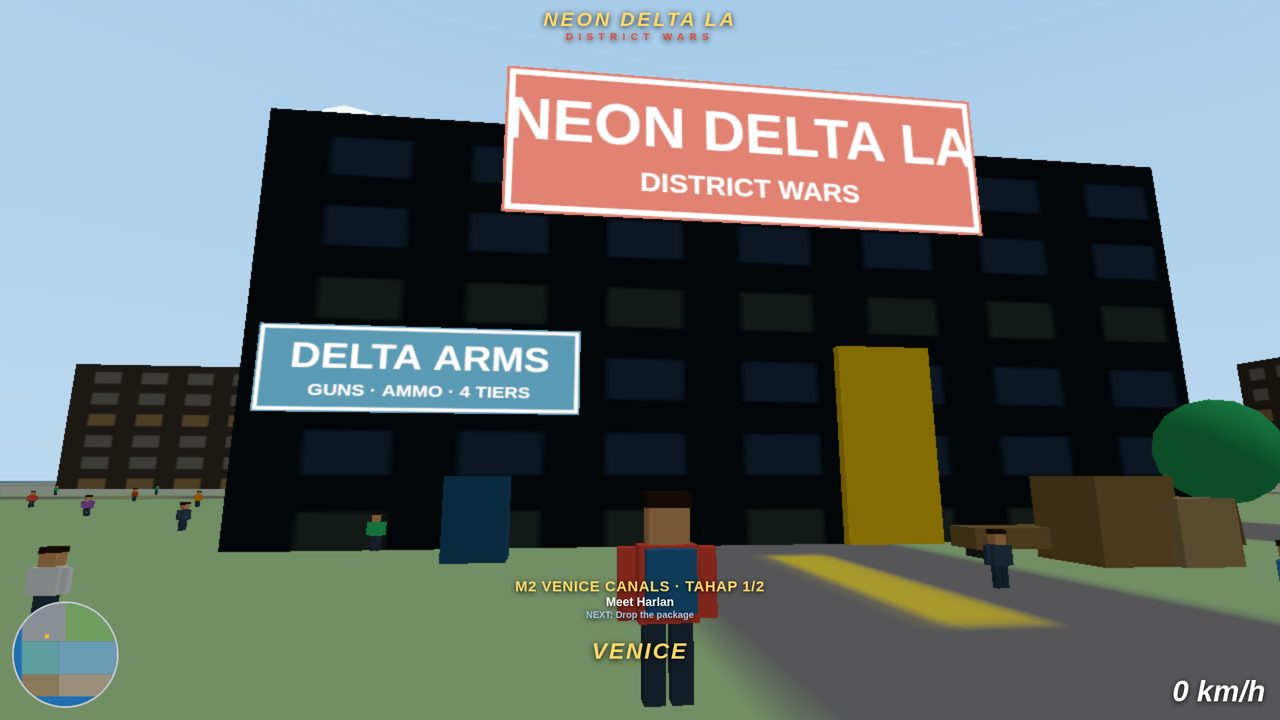
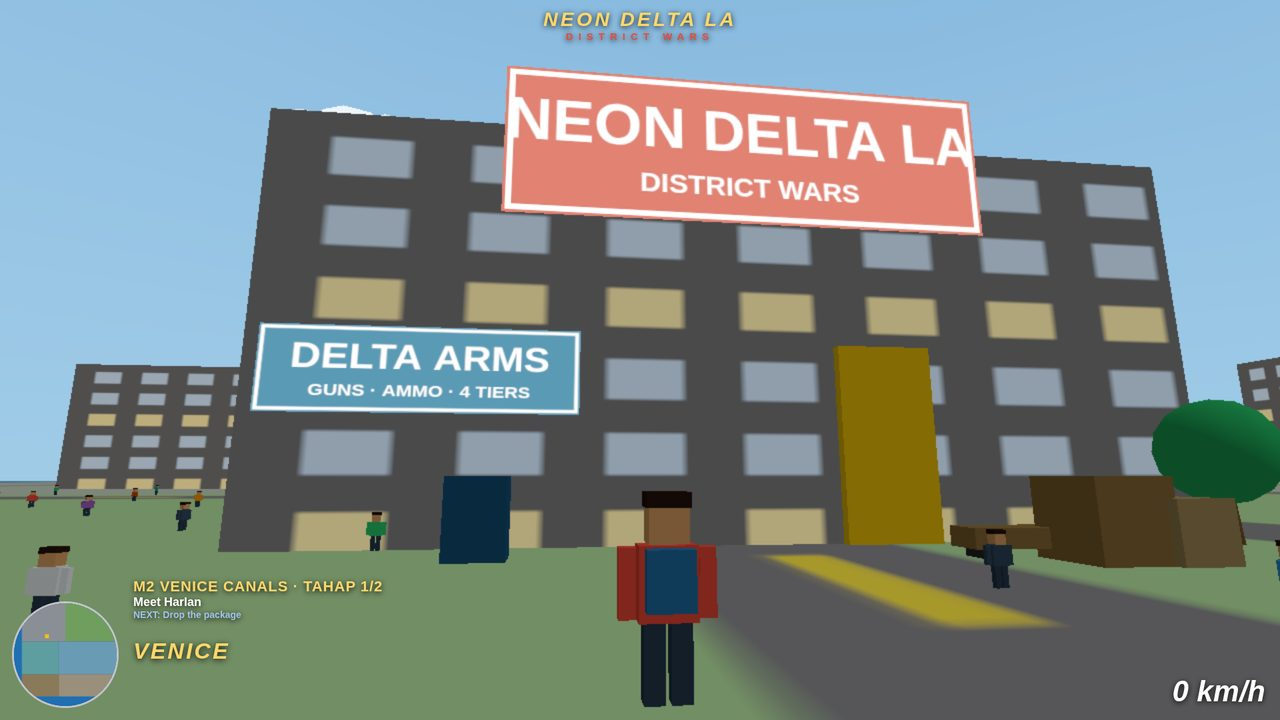
Round 8 v28: 3/4 rear hero car, filled pier foreground, saturated dusk/night grading

diff --git a/game/src/scene.js b/game/src/scene.js
@@ -101,7 +101,7 @@ function groundTexture() {
     const d1 = w2c(PIER_DECK.x1, PIER_DECK.z1);
     ctx.fillStyle = '#8a6d3b';
     ctx.fillRect(d0.x, d0.y, d1.x - d0.x, d1.y - d0.y);
-    ctx.fillStyle = 'rgba(255,220,150,0.32)';
+    ctx.fillStyle = 'rgba(255,220,150,0.4)';
     for (let z = PIER_DECK.z0; z <= PIER_DECK.z1; z += 16) {
       const p = w2c(PIER_DECK.x0, z);
       ctx.fillRect(p.x, p.y, d1.x - d0.x, w2c(0, z + 8).y - p.y);
@@ -427,10 +427,28 @@ function makeTree() {
   return g;
 }
 
+// A pier bench: wooden seat + backrest on iron legs. Same build as the
+// shop bench, as its own helper so the pier foreground can use it.
+function makeBench() {
+  const g = new THREE.Group();
+  const wood = new THREE.MeshLambertMaterial({ color: 0x8a6d3b });
+  const iron = new THREE.MeshLambertMaterial({ color: 0x333333 });
+  const seat = box(8, 0.8, 2, 0, 0, 1, 0, wood);
+  const back = box(8, 1.6, 0.5, 0, 0, 1.8, -0.9, wood);
+  const leg1 = box(0.6, 1, 1.8, 0, -3.4, 0.5, 0, iron);
+  const leg2 = box(0.6, 1, 1.8, 0, 3.4, 0.5, 0, iron);
+  g.add(seat, back, leg1, leg2);
+  return g;
+}
+
 function skyColors(hour) {
-  if (hour >= 6 && hour < 17.5) return { sky: 0x87ceeb, sun: 0xffffff, sunI: 0.9, amb: 0.55, fog: 0x9fc3e8 };
-  if (hour >= 17.5 && hour < 19) return { sky: 0xff9a3c, sun: 0xffd76a, sunI: 0.7, amb: 0.45, fog: 0xe8956a };
-  if (hour >= 19 || hour < 5) return { sky: 0x1a2340, sun: 0x9fb4ff, sunI: 0.35, amb: 0.3, fog: 0x2a3550 };
+  // v28 grading toward v15: the dusk is a saturated orange-red (warmer
+  // sun, richer fog) instead of pale salmon; the day sky and its fog
+  // are a deeper blue; the night is a purple night, slightly lifted so
+  // the pier deck is not pitch black.
+  if (hour >= 6 && hour < 17.5) return { sky: 0x87ceeb, sun: 0xffffff, sunI: 0.9, amb: 0.55, fog: 0x86b8e0 };
+  if (hour >= 17.5 && hour < 19) return { sky: 0xff7a1a, sun: 0xffb84d, sunI: 0.8, amb: 0.5, fog: 0xdd6a45 };
+  if (hour >= 19 || hour < 5) return { sky: 0x1a2340, sun: 0x9fb4ff, sunI: 0.35, amb: 0.35, fog: 0x352a5e };
   return { sky: 0xff6b5e, sun: 0xffd76a, sunI: 0.6, amb: 0.4, fog: 0xd95f4e };
 }
 
@@ -438,22 +456,26 @@ function skyColors(hour) {
 // into a small canvas texture and cached (the sphere's v axis runs
 // pole-to-pole, so the canvas top is the zenith).
 function skyGradColors(hour) {
-  if (hour >= 6 && hour < 17.5) return ['#3d7ac2', '#bfe3f0'];
-  if (hour >= 17.5 && hour < 19) return ['#5a2340', '#ff9a3c'];
-  if (hour >= 19 || hour < 5) return ['#05070f', '#2a3550'];
-  return ['#7a3a5a', '#ff6b5e'];
+  // v28: three stops — a deep zenith, a saturated mid band, a bright
+  // horizon — so the dusk reads as v15's golden-hour orange and the
+  // night as deep purple instead of a flat two-colour wash.
+  if (hour >= 6 && hour < 17.5) return ['#1e5aa8', '#5f9fd0', '#a8d8f0'];
+  if (hour >= 17.5 && hour < 19) return ['#2a1030', '#c23a1e', '#ff8c1a'];
+  if (hour >= 19 || hour < 5) return ['#060312', '#241a4e', '#43307a'];
+  return ['#7a3a5a', '#c24a3a', '#ff6b5e'];
 }
 let skyTexCache = null;
 function updateSkyMat(skyMat, hour) {
   const bucket = hour >= 6 && hour < 17.5 ? 'day' : hour >= 17.5 && hour < 19 ? 'dusk' : hour >= 19 || hour < 5 ? 'night' : 'dawn';
   if (!skyTexCache || skyTexCache.bucket !== bucket) {
-    const [top, bottom] = skyGradColors(hour);
+    const [top, mid, bottom] = skyGradColors(hour);
     const cv = document.createElement('canvas');
     cv.width = 16;
     cv.height = 256;
     const cx = cv.getContext('2d');
     const grad = cx.createLinearGradient(0, 0, 0, 256);
     grad.addColorStop(0, top);
+    grad.addColorStop(0.55, mid);
     grad.addColorStop(1, bottom);
     cx.fillStyle = grad;
     cx.fillRect(0, 0, 16, 256);
@@ -508,19 +530,22 @@ export function createScene(container, world) {
     scene.add(cl);
     clouds.push(cl);
   }
-  // Buildings with lit windows.
+  // Buildings with lit windows: the window texture is also the
+  // emissive map, so the windows glow warm (v15's lit-window grids)
+  // instead of reading as flat dark glass. The dark wall texels emit
+  // almost nothing, so the walls stay walls.
   const winTex = windowTexture();
   const bColors = [0x9b8a7a, 0x7a8a9b, 0x8a7a6b, 0x6b7a8a, 0xa08a7a, 0x7a9b8a];
   for (let i = 0; i < BUILDINGS.length; i += 1) {
     const b = BUILDINGS[i];
-    const mat = new THREE.MeshLambertMaterial({ color: bColors[i % bColors.length], map: winTex });
+    const mat = new THREE.MeshLambertMaterial({ color: bColors[i % bColors.length], map: winTex, emissive: 0xffffff, emissiveMap: winTex, emissiveIntensity: 0.5 });
     const m = new THREE.Mesh(new THREE.BoxGeometry(b.w, b.h, b.d), mat);
     m.position.set(b.x, b.h / 2, b.z);
     scene.add(m);
   }
   // DELTA ARMS shop: building, billboard, yellow door, bench, crates, tree.
   const shopG = new THREE.Group();
-  const shopBase = box(60, 26, 30, 0, 0, 13, 0, new THREE.MeshLambertMaterial({ color: 0x2c3e50, map: winTex }));
+  const shopBase = box(60, 26, 30, 0, 0, 13, 0, new THREE.MeshLambertMaterial({ color: 0x2c3e50, map: winTex, emissive: 0xffffff, emissiveMap: winTex, emissiveIntensity: 0.5 }));
   const billboard = new THREE.Mesh(new THREE.PlaneGeometry(32, 10), new THREE.MeshBasicMaterial({ map: signTexture('NEON DELTA LA', 'DISTRICT WARS', '#c0392b', '#ffffff') }));
   billboard.position.set(0, 25, 15.2);
   const frontSign = new THREE.Mesh(new THREE.PlaneGeometry(18, 5), new THREE.MeshBasicMaterial({ map: signTexture('DELTA ARMS', 'GUNS · AMMO · 4 TIERS', '#1a5276', '#ffffff') }));
@@ -583,17 +608,67 @@ export function createScene(container, world) {
     scene.add(pl);
     pierLights.push(pl);
   }
-  const fireworkM = new THREE.PointsMaterial({ color: 0xffd76a, size: 5, transparent: true, opacity: 0.9 });
+  // v28: a warm lamp over the shot-3 foreground (the old pier lights
+  // sit 60+ units from the camera, so the deck between the camera and
+  // Mara was lit by night ambient only). This one hangs above the
+  // foreground at (-660, 10, 428): it warms Mara's back and the
+  // foreground props without blowing them out (intensity 40, distance
+  // 100 — ~0.6 on Mara at 8 units, ~0.1 on the deck at 20).
+  const fgLamp = new THREE.PointLight(0xffd76a, 40, 100);
+  fgLamp.position.set(-660, 10, 428);
+  scene.add(fgLamp);
+  pierLights.push(fgLamp);
+  // v28 round 2: the benches turn 90 degrees (long side toward the
+  // camera) so they read as benches — seat + backrest + legs in
+  // profile — instead of end-on brown blocks; the crates shrink and
+  // move a step further out so they read as pier clutter, not lone
+  // giant cubes. All still on the deck, in-frame, clear of Mara and
+  // of the staged foreground peds.
+  const benchA = makeBench();
+  benchA.position.set(-674, 0, 412);
+  benchA.rotation.y = Math.PI / 2;
+  const benchB = makeBench();
+  benchB.position.set(-674, 0, 444);
+  benchB.rotation.y = Math.PI / 2;
+  scene.add(benchA, benchB);
+  const pierCrate1 = box(1.8, 1.8, 1.8, 0, -662, 0.9, 424, new THREE.MeshLambertMaterial({ color: 0x8a6d3b }));
+  const pierCrate2 = box(1.5, 1.5, 1.5, 0, -662, 0.75, 432, new THREE.MeshLambertMaterial({ color: 0xa08a5a }));
+  scene.add(pierCrate1, pierCrate2);
+  const barrelM = new THREE.MeshLambertMaterial({ color: 0x7a5a2a });
+  const barrelGeo = new THREE.CylinderGeometry(0.9, 0.9, 2.2, 10);
+  for (const [bx, bz] of [[-660, 446], [-668, 448]]) {
+    const barrel = new THREE.Mesh(barrelGeo, barrelM);
+    barrel.position.set(bx, 1.1, bz);
+    scene.add(barrel);
+  }
+  const poolM = new THREE.MeshBasicMaterial({ color: 0xffd76a, transparent: true, opacity: 0.35, side: THREE.DoubleSide });
+  for (const [px, pz, pr] of [[-658, 428, 5], [-666, 422, 4], [-666, 434, 4]]) {
+    const pool = new THREE.Mesh(new THREE.CircleGeometry(pr, 20), poolM);
+    pool.rotation.x = -Math.PI / 2;
+    pool.position.set(px, 0.06, pz);
+    scene.add(pool);
+  }
+  // Fireworks as multicolour confetti (v28, toward v15's pink/cyan/
+  // yellow burst over the wheel): each point gets its own colour from
+  // a confetti palette instead of one flat gold.
   const fwGeo = new THREE.BufferGeometry();
   const fwPos = new Float32Array(60 * 3);
+  const fwCol = new Float32Array(60 * 3);
+  const confetti = [0xff6b9d, 0x4dd0e1, 0xffd76a, 0xffffff, 0x69f0ae, 0xff9a3c];
   for (let i = 0; i < 60; i += 1) {
     const a = Math.random() * Math.PI * 2;
     const r = Math.random() * 12;
     fwPos[i * 3] = -760 + Math.cos(a) * r;
     fwPos[i * 3 + 1] = 45 + Math.random() * 15;
     fwPos[i * 3 + 2] = 470 + Math.sin(a) * r;
+    const c = new THREE.Color(confetti[i % confetti.length]);
+    fwCol[i * 3] = c.r;
+    fwCol[i * 3 + 1] = c.g;
+    fwCol[i * 3 + 2] = c.b;
   }
   fwGeo.setAttribute('position', new THREE.BufferAttribute(fwPos, 3));
+  fwGeo.setAttribute('color', new THREE.BufferAttribute(fwCol, 3));
+  const fireworkM = new THREE.PointsMaterial({ color: 0xffffff, vertexColors: true, size: 5, transparent: true, opacity: 0.9 });
   const fireworks = new THREE.Points(fwGeo, fireworkM);
   scene.add(fireworks);
   // Port: containers, crane, boat, bridge.
@@ -838,7 +913,7 @@ export function createScene(container, world) {
         // Frozen diorama: only the wheel, the rotors and the fireworks move.
         if (wheel.userData.wheel) wheel.userData.wheel.rotation.z += dt * 0.15;
         if (heli.userData.rotor) heli.userData.rotor.rotation.y += dt * 12;
-        fireworks.material.opacity = 0.5 + 0.5 * Math.sin(now * 0.004);
+        fireworks.material.opacity = 0.7 + 0.3 * Math.sin(now * 0.004);
       } else {
         // Free-roam follow camera.
         const car = world.car;

diff --git a/game/src/shots.js b/game/src/shots.js
@@ -75,6 +75,21 @@ export const SHOT3_PEDS = [
   { x: -680, z: 440 }, { x: -678, z: 420 }, { x: -685, z: 435 }, { x: -682, z: 455 },
   { x: -690, z: 430 }, { x: -688, z: 448 },
 ];
+// v28: a closer pier crowd for shot 3, filling the empty deck between
+// the camera and Mara. Six peds at 23-29 units from the camera, three
+// on each side of the sightline to Mara (never on it, so she stays
+// clear). Plus two NEAR peds at 12-16 units, one at each frame edge in
+// the lower third — v15's pier does the same (a big yellow-shirt ped
+// at the left edge, a pink one right): a clear humanoid at the edge
+// reads as a person, not a block. All on the deck, all inside the
+// camera's view cone (the camera looks ~12 degrees north of west,
+// half-FOV ~46 degrees), so none of them is a giant block at the
+// frame edge or a ped cut off mid-body.
+export const SHOT3_FOREGROUND_PEDS = [
+  { x: -664, z: 418 }, { x: -668, z: 414 }, { x: -660, z: 422 },
+  { x: -664, z: 438 }, { x: -668, z: 442 }, { x: -660, z: 434 },
+  { x: -650, z: 440 }, { x: -654, z: 422 },
+];
 export const SHOT4_PEDS = [
   { x: 400, z: 520 }, { x: 440, z: 560 }, { x: 500, z: 540 }, { x: 460, z: 600 },
   { x: 540, z: 580 }, { x: 380, z: 560 }, { x: 470, z: 600 }, { x: 585, z: 605 },
@@ -91,7 +106,13 @@ export const SHOTS = [
     // to z -261 at scale 1.8: the rear is 8 units out, so the whole car
     // (roof, cabin, red body, wheels) fits above the district label
     // while the roof stays clear of the roadblock sightline.
-    car: { x: -320, z: -261, angle: Math.PI, scale: 1.8 },
+    // v28: the car sits angled on the road (nose swung west) so the
+    // camera sees its LEFT flank + rear — a 3/4 rear view that reads as
+    // a car, not a flat red box. The camera stays dead behind on the
+    // same axis, so the car stays big, whole and centred; only its own
+    // rotation changed (position, scale and the roadblock sightline are
+    // untouched, and the heli beam still lands on the car).
+    car: { x: -320, z: -261, angle: Math.PI + 0.5, scale: 1.8 },
     camera: { x: -320, y: 3.5, z: -248 },
     look: { x: -320, y: 3, z: -320 },
     heli: { x: -320, y: 28, z: -310 },
@@ -122,6 +143,7 @@ export const SHOTS = [
     camera: { x: -639, y: 1.8, z: 428 },
     look: { x: -720, y: 2, z: 445 },
     peds: SHOT3_PEDS,
+    foregroundPeds: SHOT3_FOREGROUND_PEDS,
     dialogue: { name: 'INEZ VARGAS', line: 'Meet me where the lights are loudest. The ledger pages are already moving.' },
     missionBar: { title: 'M7 THE NIGHT LEDGER', stage: 'TAHAP 1/2', objective: 'Meet Inez', next: 'Take the ledger' },
     wheelOpen: false,

diff --git a/game/index.html b/game/index.html
@@ -27,7 +27,16 @@
      adds body.shot1 only while shot 1 is staged; other shots keep the
      default bottom-centre HUD. */
   body.shot1 #dialogue { top: 90px; bottom: auto; left: 20px; transform: none; }
-  body.shot1 #mission-bar { top: 90px; bottom: auto; left: auto; right: 20px; transform: none; text-align: right; }
+  /* v28: right 20px put the longest line (NEXT: Lose the tail) hard
+     against the right frame edge. 48px clears the edge with room. */
+  body.shot1 #mission-bar { top: 90px; bottom: auto; left: auto; right: 48px; transform: none; text-align: right; }
+  /* v28 shot 2 only: the bottom-centre mission bar and the VENICE
+     label sat on Mara's legs (she fills the centre of the frame down
+     to the bottom edge). For this shot they move to the bottom-left
+     over the empty forecourt grass — left of the minimap's right edge,
+     clear of Mara entirely — keeping the same bottom offsets. */
+  body.shot2 #mission-bar { left: 200px; transform: none; text-align: left; }
+  body.shot2 #hud-district { left: 200px; transform: none; text-align: left; }
   /* v27 declutter: in staged shots the abstract property panels are
      hidden so the 3D scene dominates the frame — big car / big Mara /
      landmark / dusk light, no big text block competing with the scene.
